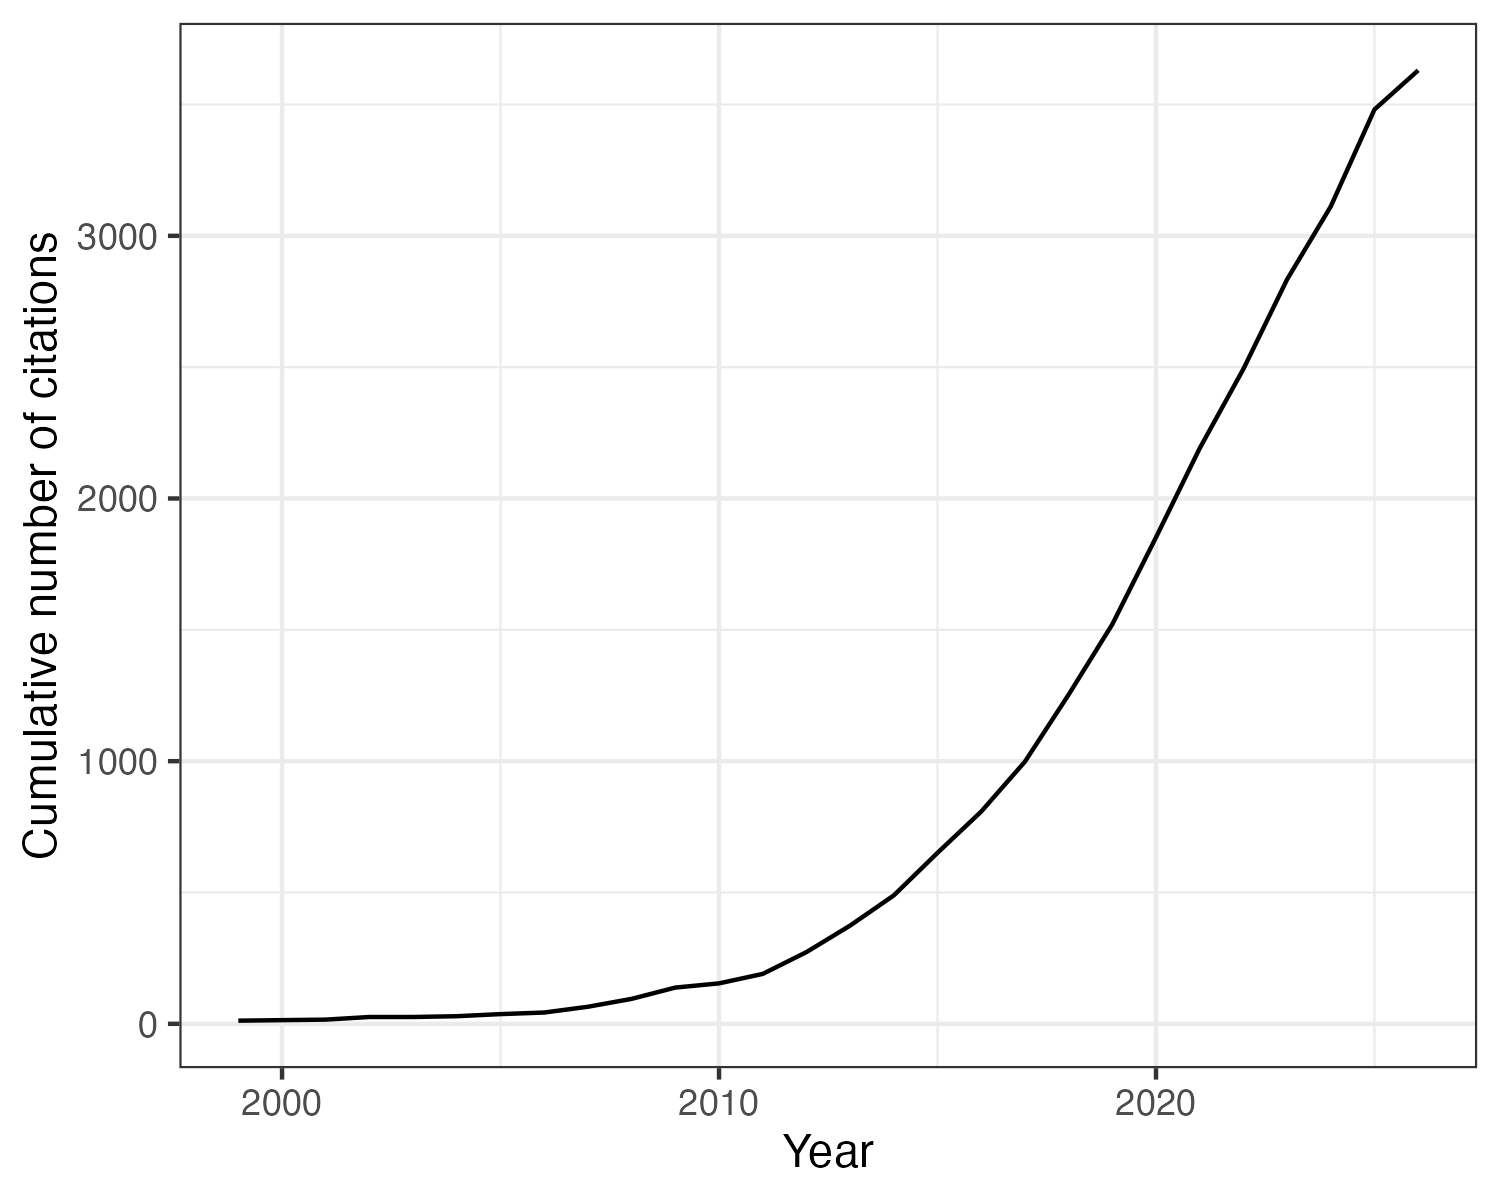
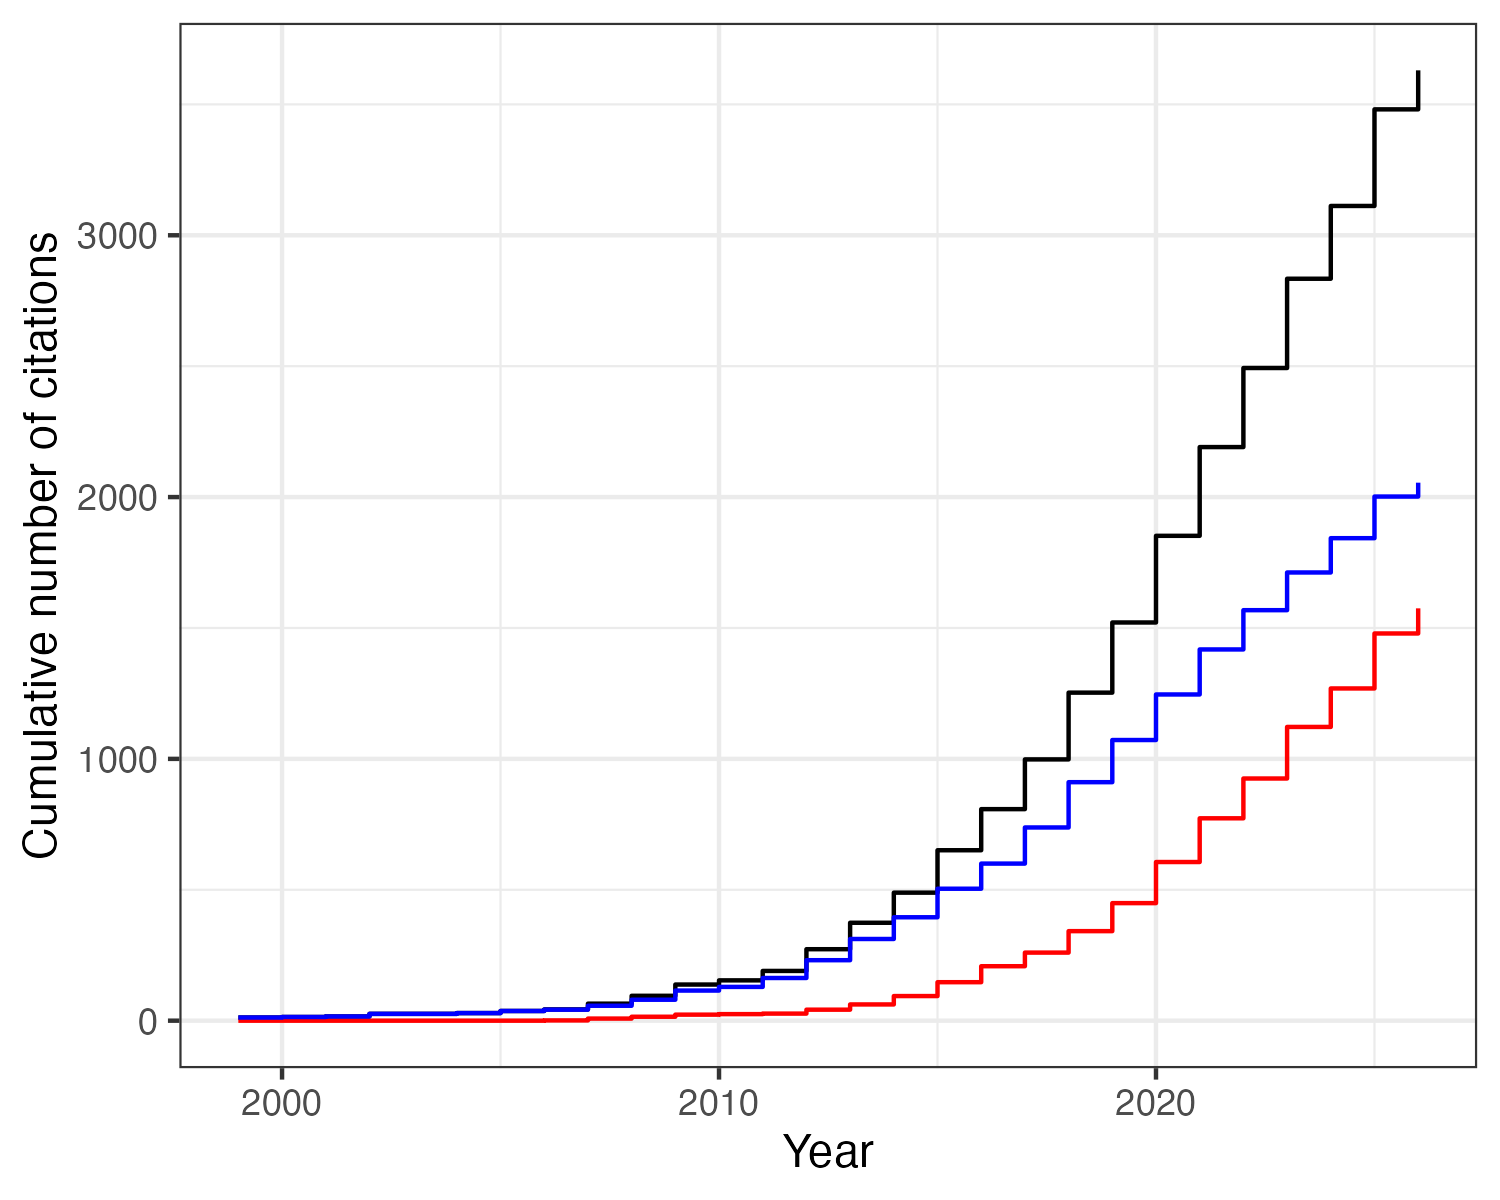
Update links

diff --git a/papers/index.md b/papers/index.md
@@ -8,27 +8,33 @@ excerpt: The list of peer-reviewed scientific papers written by Peter Solymos.
 
 <div class="btn-group btn-group-justified">
 
-  <div class="btn-group">
+  <!-- <div class="btn-group">
     <a href="#" class="btn btn-default dropdown-toggle" data-toggle="dropdown">Bibliometrics <i class="fa fa-caret-down" aria-hidden="true"></i></a>
     <ul class="dropdown-menu">
       <li><a href="http://scholar.google.ca/citations?hl=en&user=PfC17QsAAAAJ&view_op=list_works&pagesize=100">Google Scholar</a></li>
       <li><a href="http://orcid.org/0000-0001-7337-1740">ORCID</a></li>
-    <!--  <li><a href="https://vm.mtmt.hu/www/index.php?AuthorID=10000580">MTMT</a></li> -->
+      <li><a href="https://vm.mtmt.hu/www/index.php?AuthorID=10000580">MTMT</a></li>
       <li><a href="http://www.researcherid.com/rid/B-2775-2008">ResearcherID</a></li>
       <li><a href="http://www.scopus.com/authid/detail.url?authorId=23104106300">ScopusID</a></li>
-      <!-- <li><a href="https://academic.microsoft.com/#/detail/1972292879">Microsoft Academic</a></li> -->
-      <!-- <li><a href="https://impactstory.org/u/0000-0001-7337-1740">Impactstory</a></li> -->
+      <li><a href="https://academic.microsoft.com/#/detail/1972292879">Microsoft Academic</a></li>
+      <li><a href="https://impactstory.org/u/0000-0001-7337-1740">Impactstory</a></li>
       <li><a href="{{ site.baseurl }}/papers/bibliometrics.html">Charts</a></li>
      </ul>
+  </div> -->
+  <div class="btn-group">
+    <a href="{{ site.baseurl }}/papers/bibliometrics.html" class="btn btn-default">Bibliometrics</a>
   </div>
 
-  <div class="btn-group">
+  <!-- <div class="btn-group">
     <a href="#" class="btn btn-default dropdown-toggle" data-toggle="dropdown">Resources <i class="fa fa-caret-down" aria-hidden="true"></i></a>
     <ul class="dropdown-menu">
-      <!-- <li><a href="https://publons.com/a/534081/">Publons</a></li> -->
+      <li><a href="https://publons.com/a/534081/">Publons</a></li>
       <li><a href="https://drive.google.com/folderview?id=0B-q59n6LIwYPflA4aHVydEx5aFY5MUZtdFRvcG11NWNUc3ljOTdsSlFSSHRDdHJVMDEyWXc&usp=sharing">Browse <i class="fa fa-file-pdf-o" aria-hidden="true"></i></a></li>
-      <!-- <li><a href="https://sites.google.com/site/psolymosold/publications/nonrefereed">Not peer-reviewed stuff</a></li> -->
+      <li><a href="https://sites.google.com/site/psolymosold/publications/nonrefereed">Not peer-reviewed stuff</a></li>
      </ul>
+  </div> -->
+  <div class="btn-group">
+    <a href="[{{ site.baseurl }}/papers/bibliometrics.html](https://drive.google.com/folderview?id=0B-q59n6LIwYPflA4aHVydEx5aFY5MUZtdFRvcG11NWNUc3ljOTdsSlFSSHRDdHJVMDEyWXc&usp=sharing)" class="btn btn-default">Browse <i class="fa fa-file-pdf-o" aria-hidden="true"></i></a>
   </div>
 
   <div class="btn-group">
@@ -37,6 +43,7 @@ excerpt: The list of peer-reviewed scientific papers written by Peter Solymos.
       {% for yr in page.years %}<li><a href="#{{ yr }}">{{ yr }}</a></li> {% endfor %}
      </ul>
   </div>
+
 </div>
 
 {% for yr in page.years %}

diff --git a/papers/bibliometrics.md b/papers/bibliometrics.md
@@ -25,7 +25,7 @@ Citations over time:
 
 <img src="{{ site.baseurl }}/images/publications/citations_over_time.png" class="img-responsive" alt="Citations over time">
 
-Cumulative citations over time:
+Cumulative citations over time (red line shows mollusc papers, blue line shows non-mollusc papers, black line shows all papers):
 
 <img src="{{ site.baseurl }}/images/publications/cumulative_citations_over_time.png" class="img-responsive" alt="Cumulative citations over time">
 
